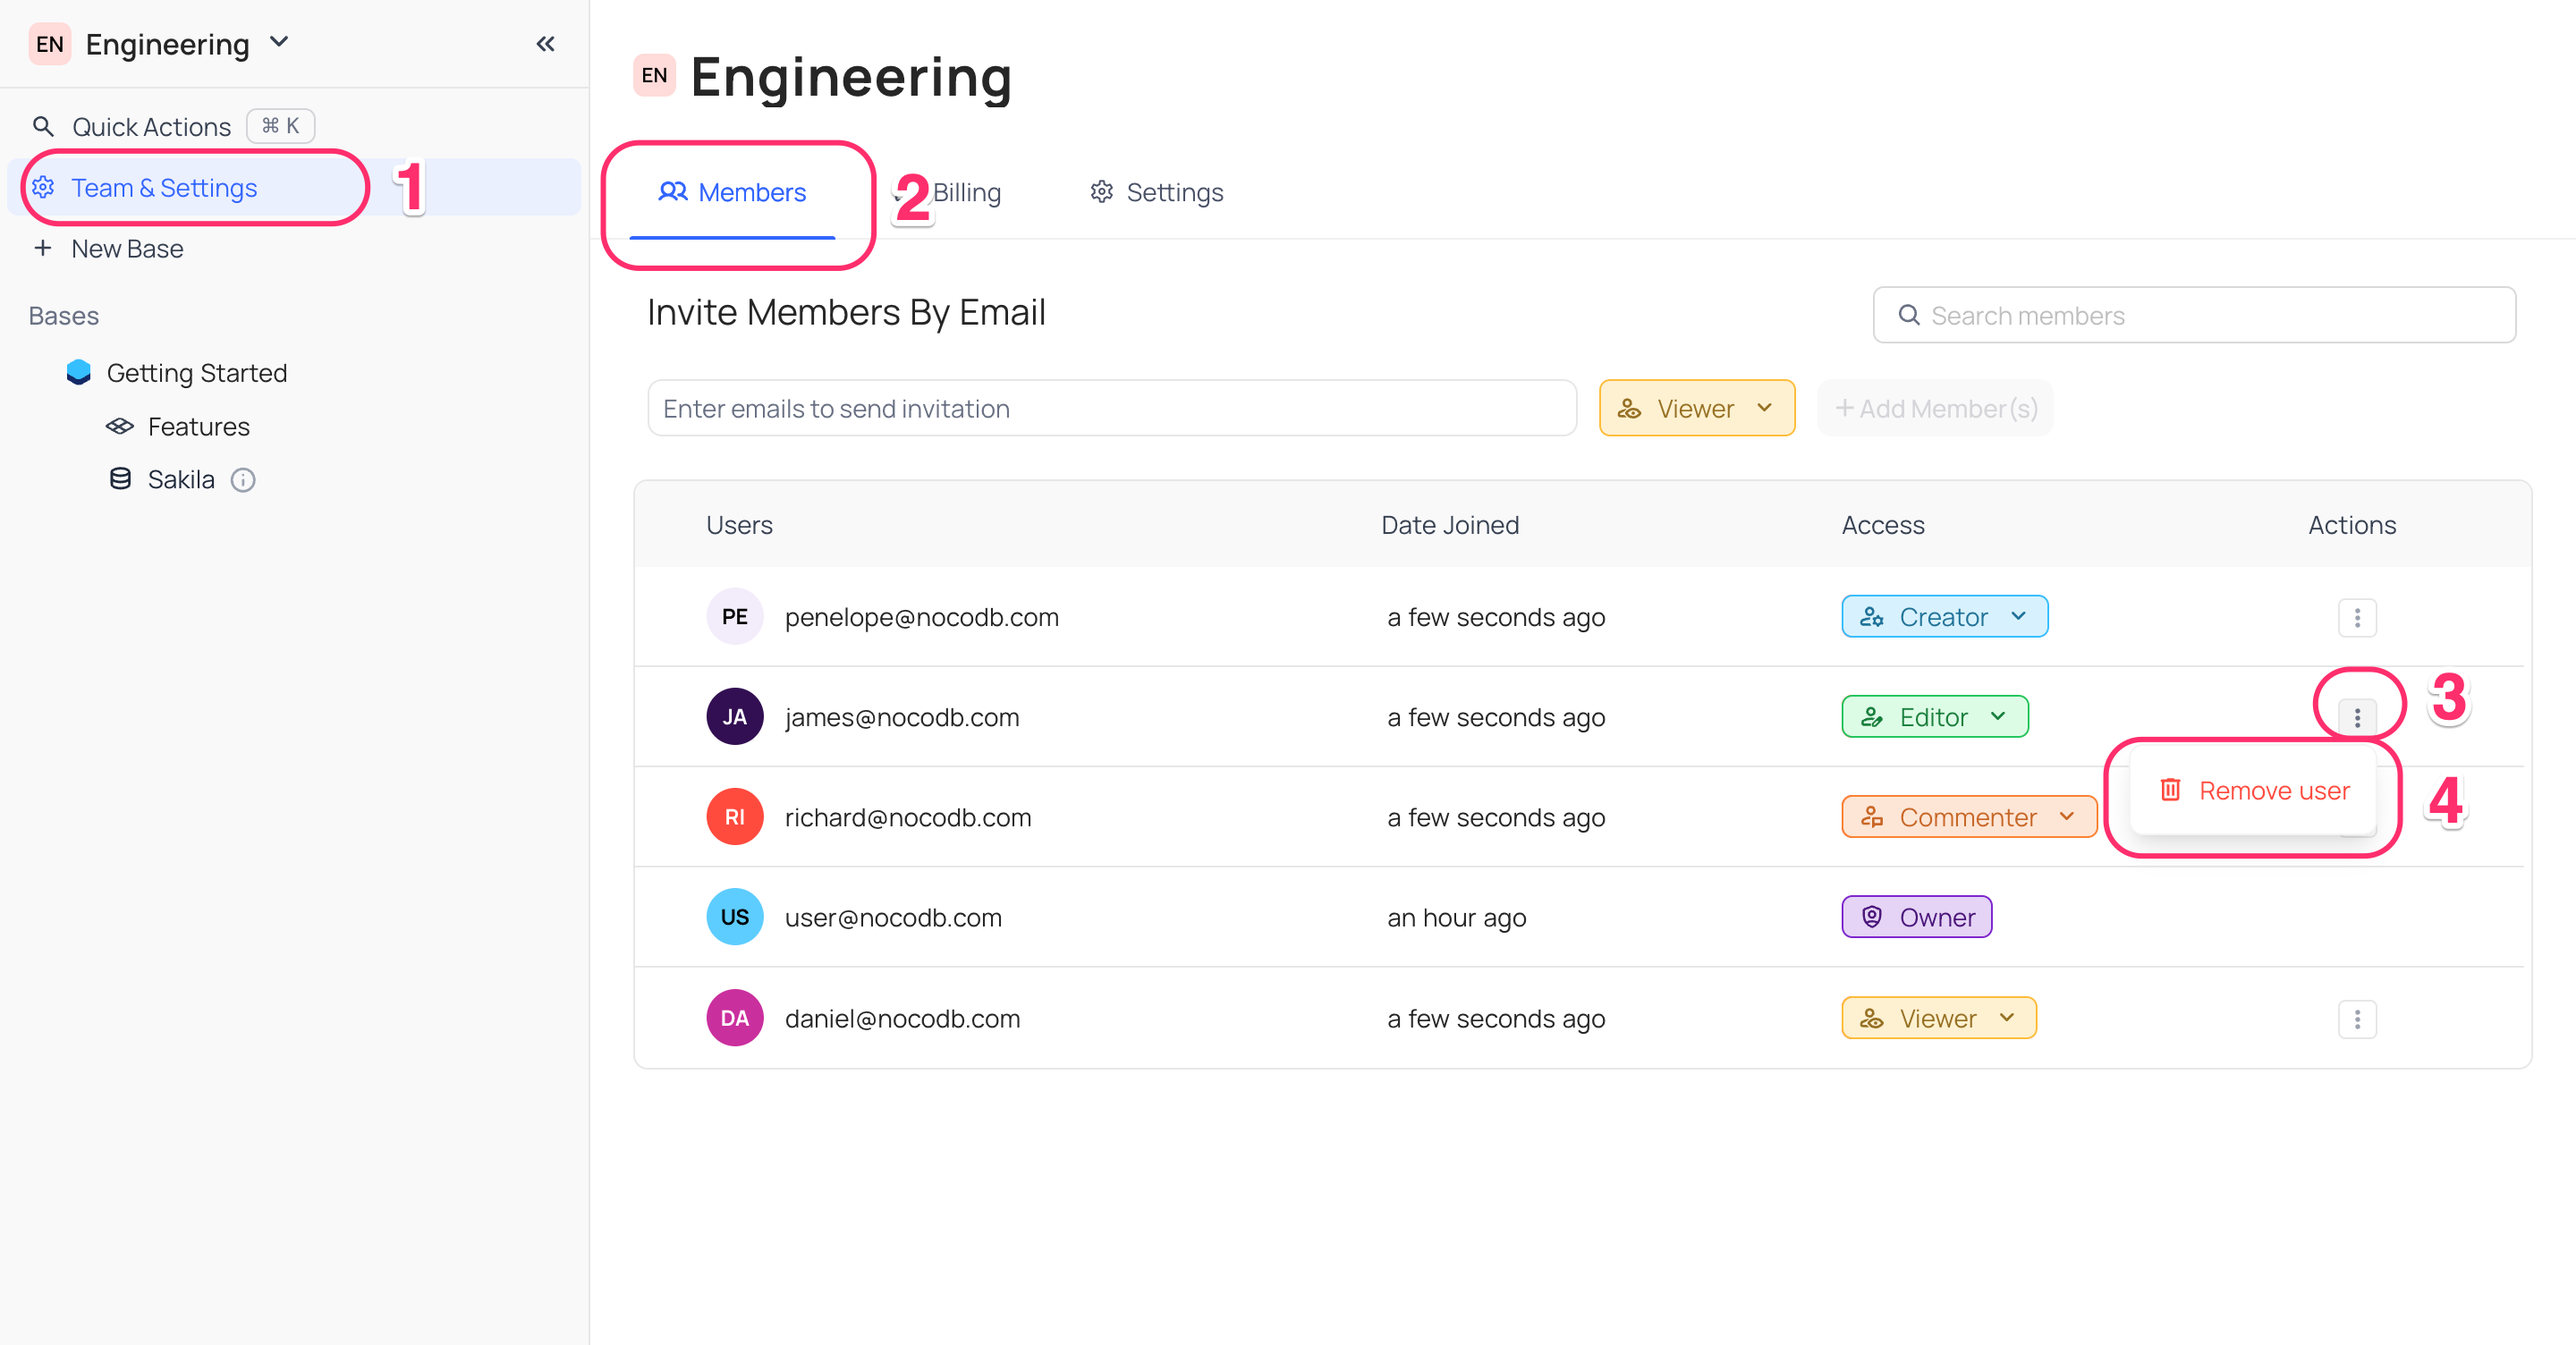
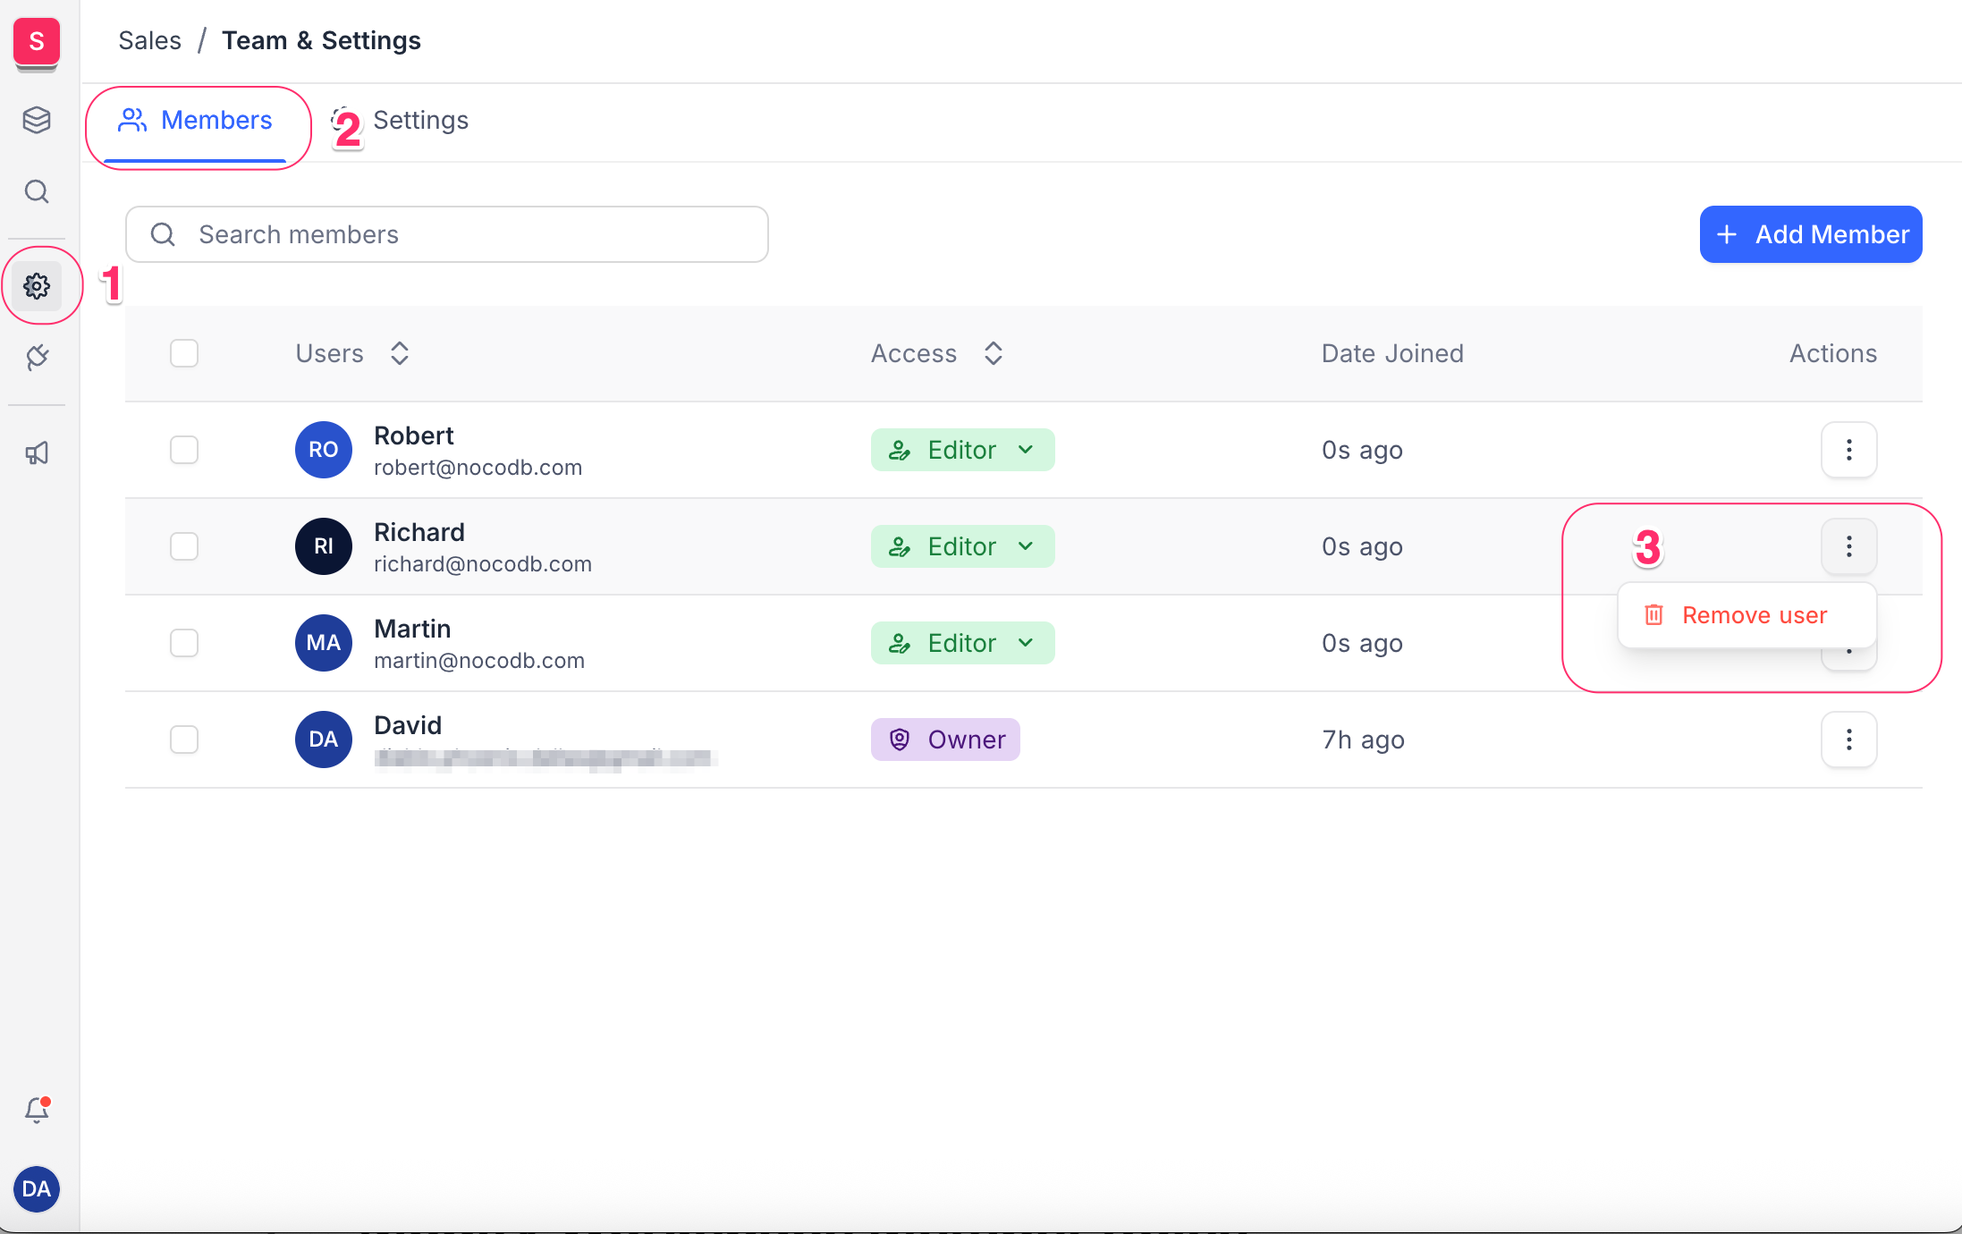
docs: workspace collabration

diff --git a/packages/noco-docs/docs/030.workspaces/010.workspace-overview.md b/packages/noco-docs/docs/030.workspaces/010.workspace-overview.md
@@ -4,16 +4,7 @@ description: 'This article briefs the concept of workspaces in NocoDB.'
 tags: ['Workspaces', 'Overview']
 ---
 
-In NocoDB, workspaces play a pivotal role in facilitating collaborative and organized data management. A workspace serves as a container for one or more bases, allowing users to bring together interconnected tables, views, and various elements into a unified and coherent entity. Each workspace can house multiple bases, enabling users to categorize and structure their data in a way that suits their specific needs. Whether you're tracking projects, managing databases, or organizing information, NocoDB's workspaces provide the flexibility and organization required to make data-driven decisions and foster collaboration within your team. Additionally, workspaces allow for the assignment of specific access permissions to workspace members, ensuring that data security and privacy are maintained while enabling effective teamwork.
-
-Some key points to note about workspaces are:
-1. Each workspace contains its own set of bases, keeping your data separate and well-organized.
-2. Workspaces have their own set of members and permissions, allowing you to control who can access and modify data within each workspace.
-3. Workspaces offer unique settings and billing options, letting you customize configurations to suit specific needs.
-4. Bases are tied exclusively to one workspace and can't be moved between workspaces, ensuring data integrity.
-5. Members can be part of multiple workspaces. You can also fine-tune their roles within each workspace.
-
-In summary, NocoDB workspaces streamline data management and member control, providing the flexibility and oversight necessary for various projects and teams.
+In NocoDB, workspaces play a pivotal role in facilitating collaborative and organized data management. A workspace serves as a container for one or more bases, allowing users to bring together interconnected tables, views, and various elements into a unified and coherent entity. Workspaces allow for the assignment of specific access permissions to workspace members, ensuring that data security and privacy are maintained while enabling effective teamwork.
 
 To begin, you can [create a workspace](/workspaces/create-workspace) tailored to your project. Collaborate seamlessly by [inviting team members](/workspaces/workspace-collaboration) to the workspace. If roles need adjustment, simply [modify a team member's role](/workspaces/workspace-collaboration#modify-workspace-member-roles). When necessary, you can also [remove team members](/workspaces/workspace-collaboration#remove-workspace-members) from the workspace. For organizational purposes, renaming the workspace is straightforward with the [rename workspace](/workspaces/actions-on-workspace#rename-workspace) feature. Finally, if a workspace is no longer needed, you can easily [delete it](/workspaces/actions-on-workspace#delete-workspace). 
 
@@ -23,7 +14,7 @@ The Open Source NocoDB includes a default workspace, and it does not allow the c
 
 ### Workspace context menu
 
-The workspace context menu, conveniently located in the left top of sidebar, provides a list of all the workspaces accessible to you. 
+The workspace context menu, conveniently located in the left top of minibar, provides a list of all the workspaces accessible to you. 
 You can easily switch between different workspaces by simply clicking on the respective workspace name within this menu.
 
 ![image](/img/v2/workspace/workspace-context-menu.png)
@@ -37,10 +28,3 @@ You can easily switch between different workspaces by simply clicking on the res
 - [Delete workspace](/workspaces/actions-on-workspace#delete-workspace)
 
 
-[//]: # (Workspaces in NocoDB are collection of one or more [Bases]&#40;/bases/base-overview&#41;. You can create multiple workspaces to organize your bases and members. Some of the key points to note about workspaces are:)
-[//]: # (- Each workspace has its own set of bases.)
-[//]: # (- Each workspace has its own set of members and access permissions.)
-[//]: # (- Each workspace has its own set of settings & billing plans)
-[//]: # (- A base can be a part of only one workspace & cannot be moved between workspaces.)
-[//]: # (- A member can be a member of multiple workspaces.)
-[//]: # (- A member can have different access permissions in different workspaces.)

diff --git a/packages/noco-docs/docs/030.workspaces/030.workspace-collaboration.md b/packages/noco-docs/docs/030.workspaces/030.workspace-collaboration.md
@@ -9,18 +9,20 @@ Next logical step after creating a workspace is to invite members to it. In this
 A comprehensive guide regarding roles and permissions can be accessed [here](/roles-and-permissions/roles-permissions-overview).
 
 ## Invite members to Workspace
-1. Navigate to the Workspace configuration page by selecting `Team & Settings` in the left sidebar.
+1. Navigate to the Workspace configuration page by selecting `Team & Settings` in the left minibar.
 2. Access the `Members` tab.
-3. Input the email address of the intended member for the invitation.
-4. Click on `Role` dropdown menu
-5. Choose the appropriate access permission for the member from the dropdown menu.
-6. Conclude the process by selecting the `Add Member(s)` button.
+3. Click on the `Add Member` button located in the top right corner of the page.
+4. Input the email address of the intended member for the invitation.
+5. Choose the appropriate access permission for the member from the role dropdown menu.
+6. Conclude the process by selecting the `Invite to Workspace` button.
 
 :::info
 **Note**: Any user can invite members to the workspace, but they can only assign a role to new members that is at most equal to their own role.
 :::
 
-![image](/img/v2/workspace/workspace-collaboration.png)  
+![image](/img/v2/workspace/workspace-collaboration-1.png)  
+![image](/img/v2/workspace/workspace-collaboration-2.png)  
+![image](/img/v2/workspace/workspace-collaboration-3.png)  
   
 :::tip
 You can invite multiple members simultaneously by entering their email addresses, separated by commas.
@@ -30,7 +32,7 @@ You can invite multiple members simultaneously by entering their email addresses
 ## List Workspace members
 The `Members` tab in `Team & Settings` displays a list of users who have been granted access to the workspace.
 
-1. Navigate to the Workspace configuration page by selecting `Team & Settings` in the left sidebar.
+1. Navigate to the Workspace configuration page by selecting `Team & Settings` in the left minibar.
 2. Access the `Members` tab.
 
 :::info
@@ -41,10 +43,9 @@ The `Members` tab in `Team & Settings` displays a list of users who have been gr
 
 ## Modify Workspace Member Roles
 You can modify the access permissions of members by following these steps:
-1. Navigate to the Workspace configuration page by selecting `Team & Settings` in the left sidebar.
+1. Navigate to the Workspace configuration page by selecting `Team & Settings` in the left minibar.
 2. Access the `Members` tab.
-3. Access the dropdown menu.
-4. Select the desired new role option.
+3. Access the dropdown menu. Select the desired new role option.
 
 :::info
 **Note**: Updates to existing workspace member roles can only be made by the workspace **owner** or **creator**.
@@ -54,10 +55,9 @@ You can modify the access permissions of members by following these steps:
 
 ## Remove Workspace Members
 To remove a member from the workspace, take the following steps:
-1. Navigate to the Workspace configuration page by selecting `Team & Settings` in the left sidebar.
+1. Navigate to the Workspace configuration page by selecting `Team & Settings` in the left minibar.
 2. Access the `Members` tab.
-3. Click on the vertical ellipses `⋮` to open the context menu.
-4. Select the `Remove User` option.
+3. Click on the vertical ellipses `⋮` to open the context menu. Select the `Remove User` option.
 
 :::info
 **Note**: Only the workspace **owner** or **creator** can remove members from the workspace.

diff --git a/packages/noco-docs/docs/030.workspaces/020.create-workspace.md b/packages/noco-docs/docs/030.workspaces/020.create-workspace.md
@@ -12,7 +12,7 @@ In the following section, lets look at the process of creating your NocoDB works
 
 ## Create a workspace
 
-1. Navigate to the top-left corner of the sidebar and select the **Workspace name** to access the **Workspace context menu**.
+1. Hover over top-left corner of the minibar displaying **Workspace icon** to access the **Workspace context menu**.
 2. From the Workspace context menu, opt for the **Create workspace** button.
 3. Provide a name for the workspace 
 4. Proceed by clicking the **Create Workspace** button.
